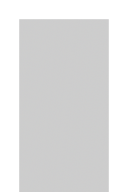
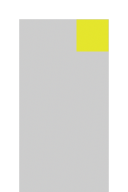
Basic sword slash + flip player

Changed region(s): [[0.5938, 0.0938, 0.875, 0.2812]]

diff --git a/README.md b/README.md
@@ -5,9 +5,12 @@ Submission to the Global Game Jam 2020
 - Draw placeholders *
 - Player actions : run / jump *
 - Basic level blocs : floor / walls *
-- Add Sword
-- Player slash
-- Player & sword hitbox
+- Add Sword *
+- Player slash *
+- Sword input time delay *
+- Swap player direction *
+- Player & sword hitbox *
+- WASD & ZQSD same ? to test
 - Player health
 - Spike bloc logic
 - Enemy logic : walk / attack
